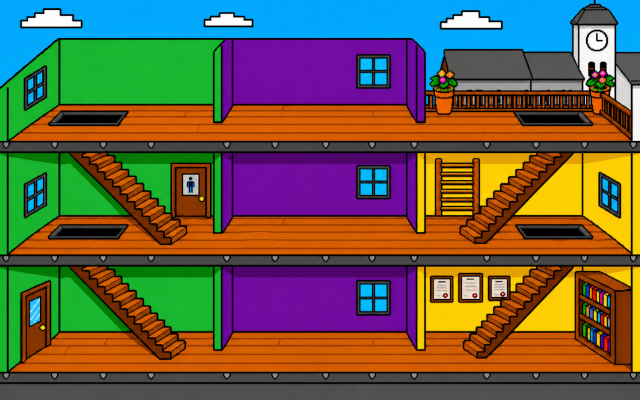
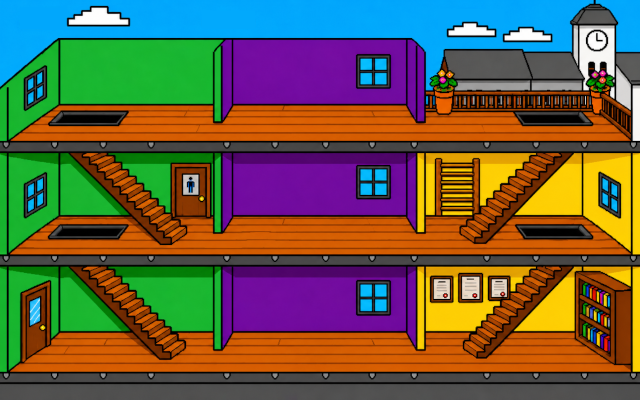
fix: improved layout and images

Changed region(s): [[0.6875, 0.0, 0.875, 0.12], [0.0312, 0.0, 0.2188, 0.09], [0.3125, 0.03, 0.4062, 0.09]]

diff --git a/js/layout.js b/js/layout.js
@@ -114,7 +114,7 @@ Object.assign(CONFIG.vis, {
     timerAlpha: 0.80,               // timer bar opacity
     fontSize:  6,
     dotGap:    5,                    // gap between icon and counter text
-    bgColor:   'rgba(0,0,0,0.55)',
+    bgColor:   'rgba(0, 4, 75, 0.55)',
     // Mechanic indicator colour per mechanic type
     dotColors: {
       boards:     '#588D43',